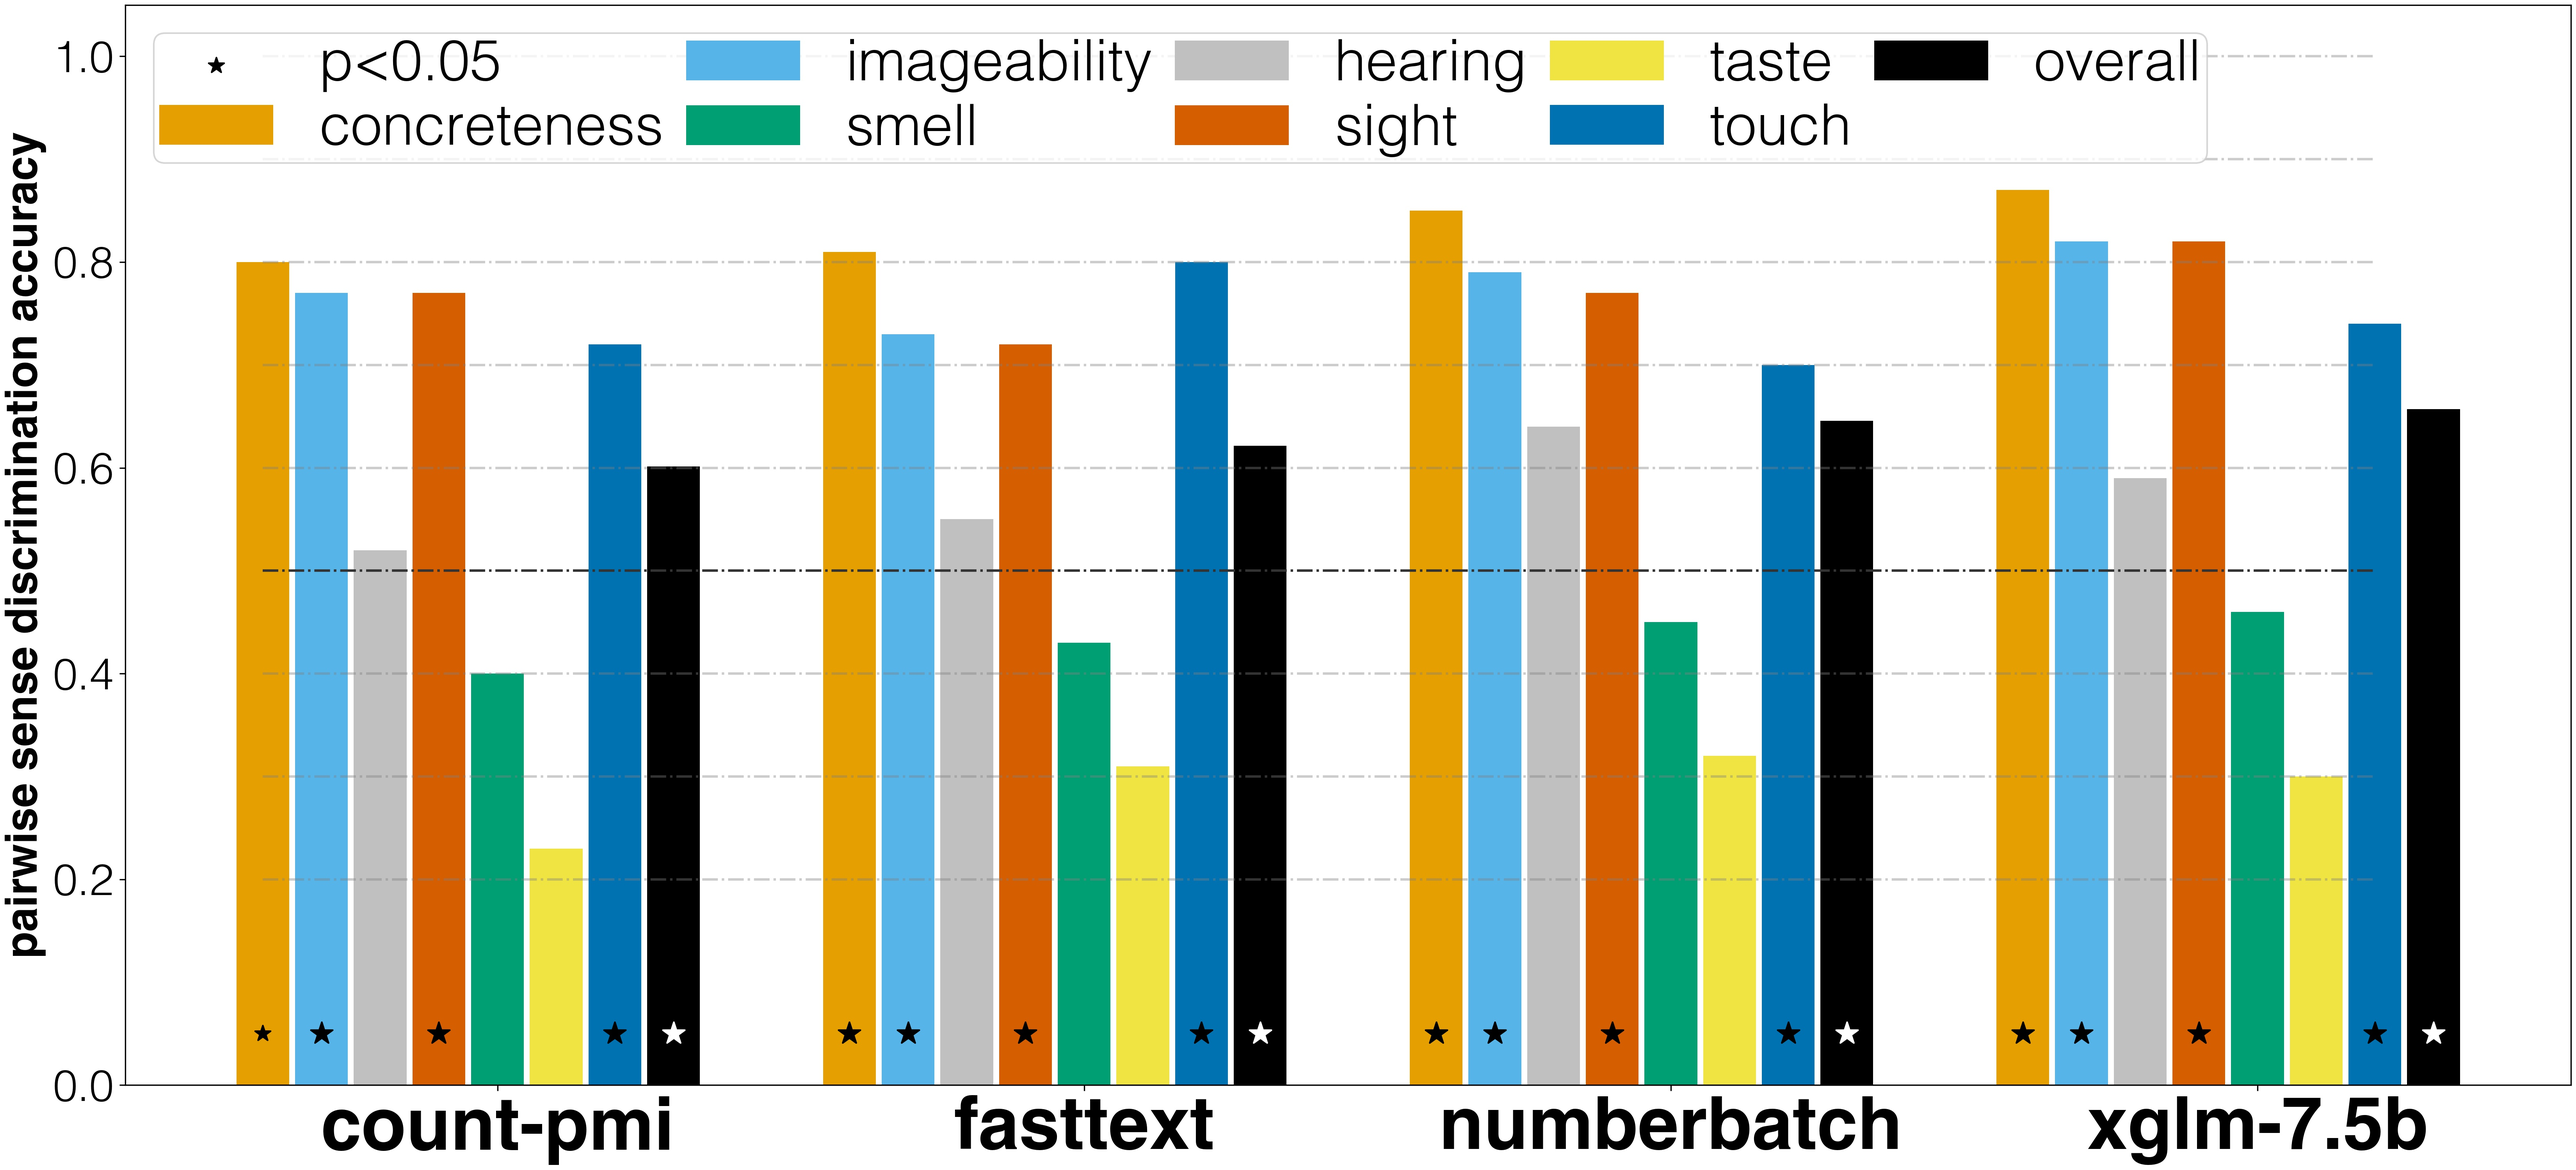
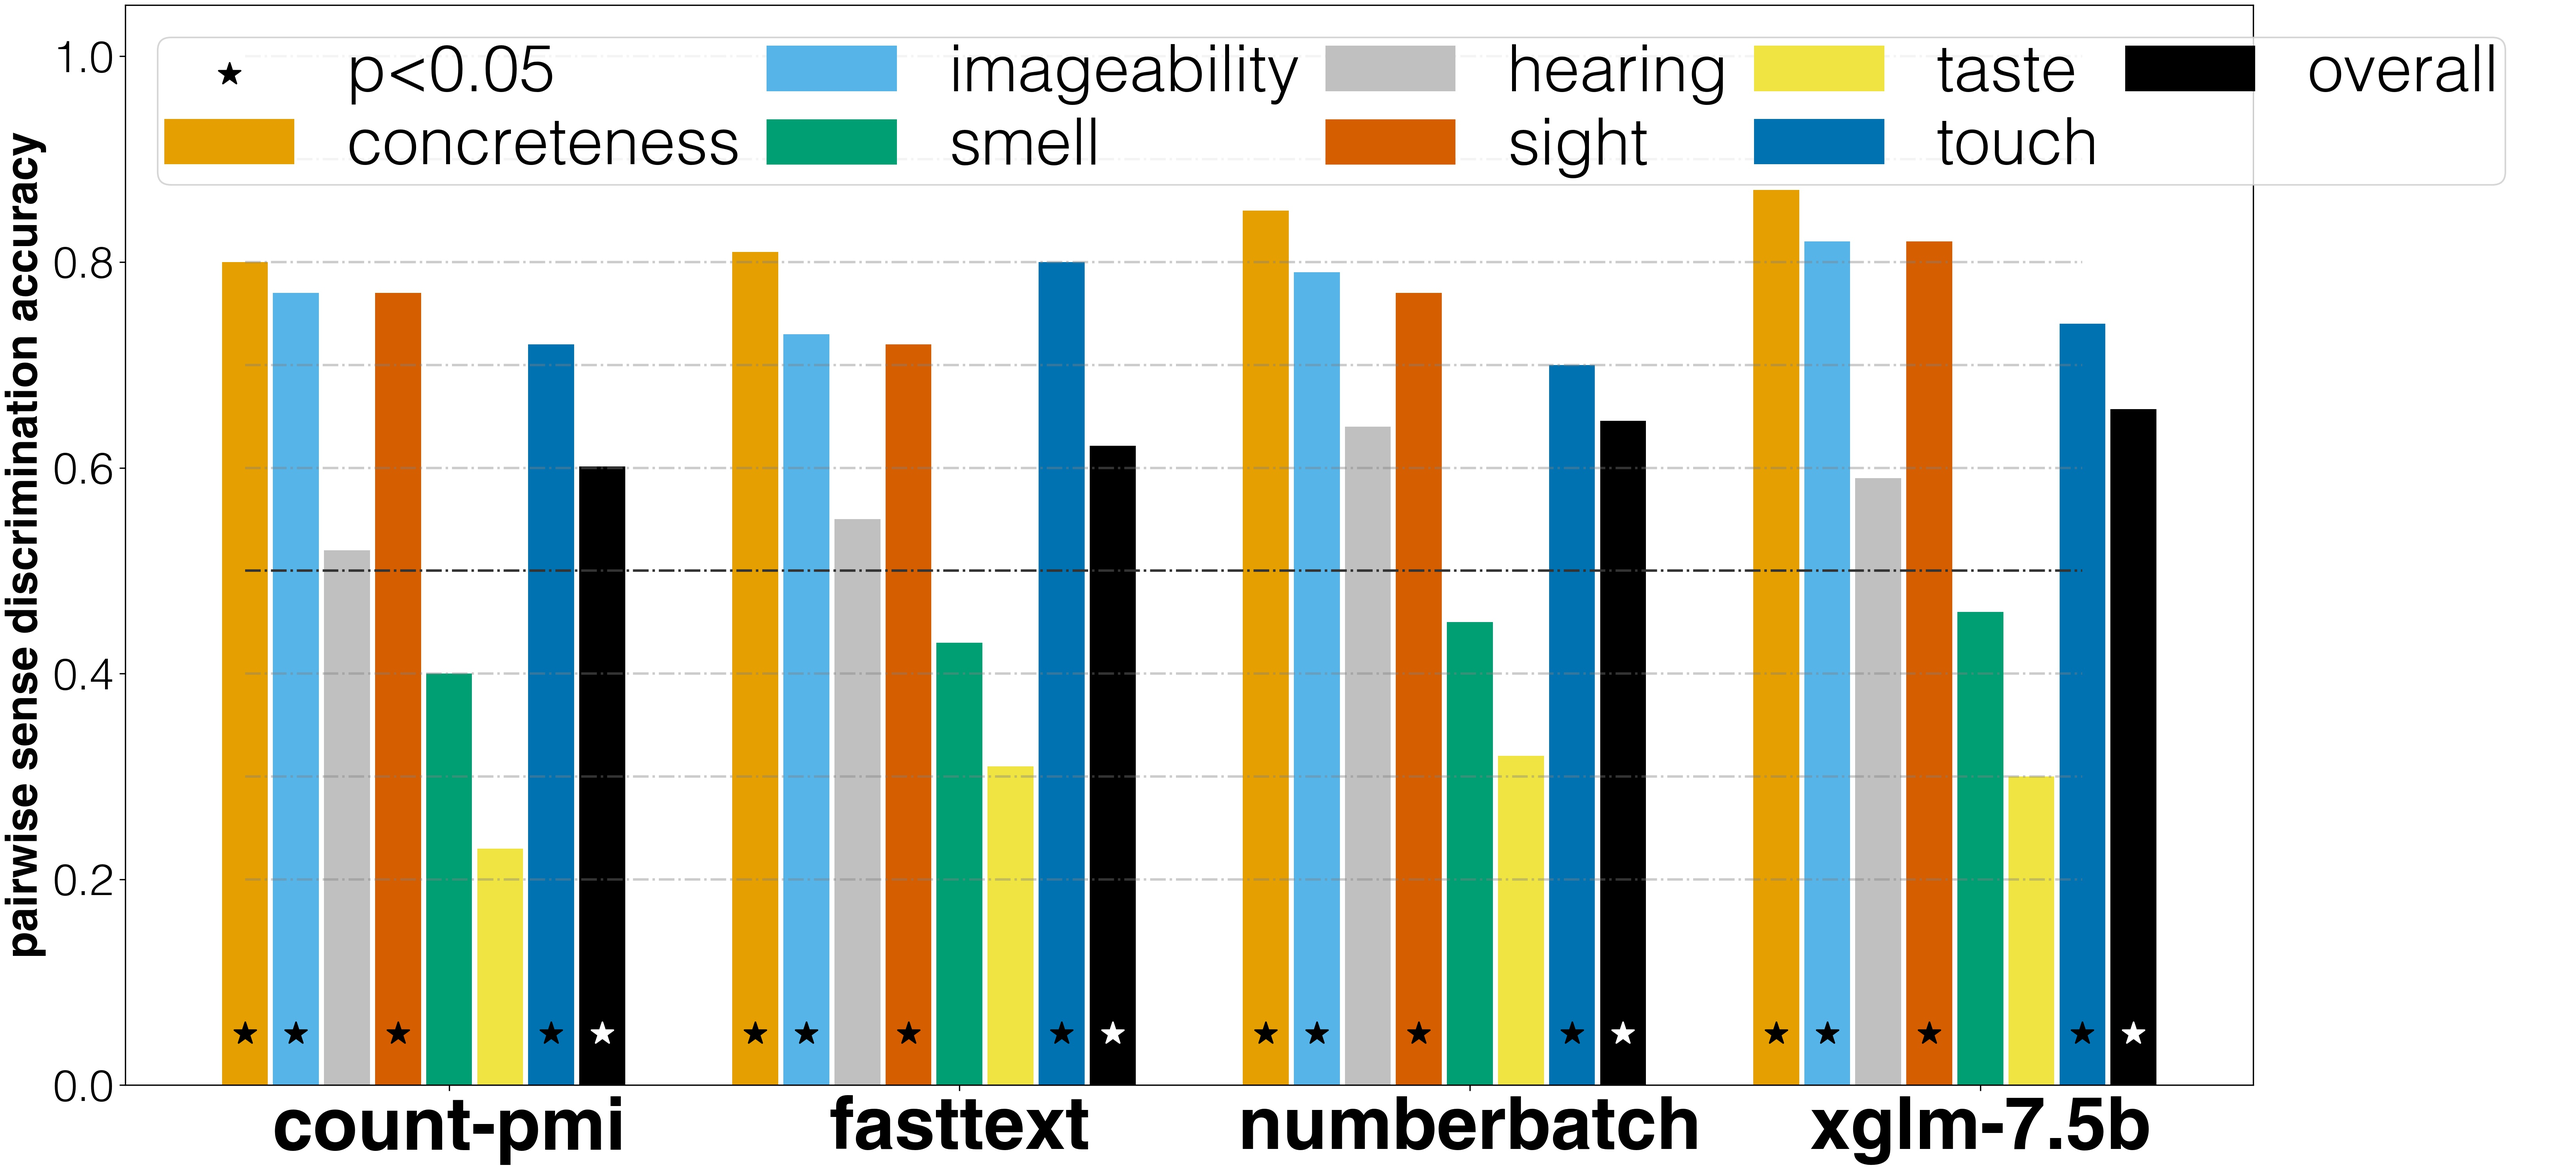
y

diff --git a/07_rsa_and_evaluation.py b/07_rsa_and_evaluation.py
@@ -485,7 +485,7 @@ with open('{}.txt'.format(out_file), 'w') as o:
                            marker='*', 
                            color=p_color, 
                            zorder=2.5,
-                           s=100.,
+                           s=200.,
                            label=label
                            )
                     counter += 1
@@ -526,7 +526,7 @@ ax.set_xticklabels(
                    )
 pyplot.yticks(fontsize=27)
 ax.legend(
-          fontsize=35, 
+          fontsize=40, 
           ncol=5, 
           loc=2, 
           #frameon=False, 
